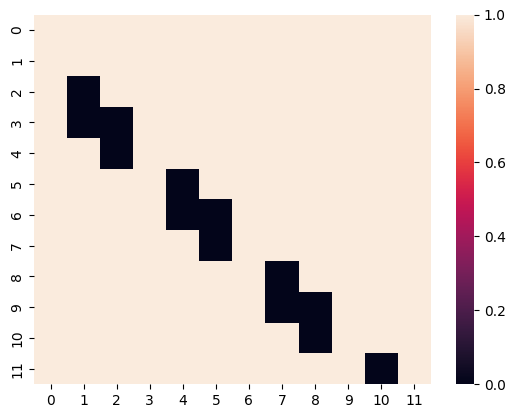
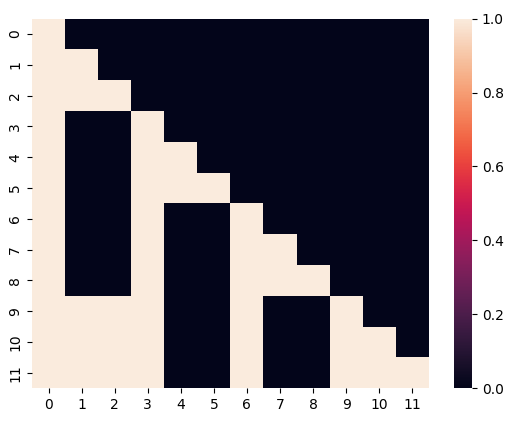
fix mask

diff --git a/self_reasoning_tokens_pytorch/self_reasoning_tokens.py b/self_reasoning_tokens_pytorch/self_reasoning_tokens.py
@@ -55,7 +55,7 @@ class CausalAttention(Module):
         q = q * self.scale
         sim = einsum(q, k, 'b h i d, b h j d -> b h i j')
 
-        causal_mask = torch.ones((seq, seq), device = device).triu(1)
+        causal_mask = torch.ones((seq, seq), device = device, dtype = torch.bool).triu(1)
 
         mask_value = -torch.finfo(sim.dtype).max
         sim = sim.masked_fill(causal_mask, mask_value)
@@ -171,8 +171,8 @@ class Transformer(Module):
             seq_with_reason_range = torch.arange(seq_timesteps.shape[-1], device = device)
             is_reason_token_mask = ~(seq_with_reason_range % num_tokens_per_timestep == 0)
 
-            q_range = repeat(seq_with_reason_range, 'n -> n 1')
-            k_range = repeat(seq_with_reason_range, 'n -> 1 n')
+            q_range = rearrange(seq_timesteps, 'n -> n 1')
+            k_range = rearrange(seq_timesteps, 'n -> 1 n')
 
             attn_mask = ~(
                 is_reason_token_mask &
